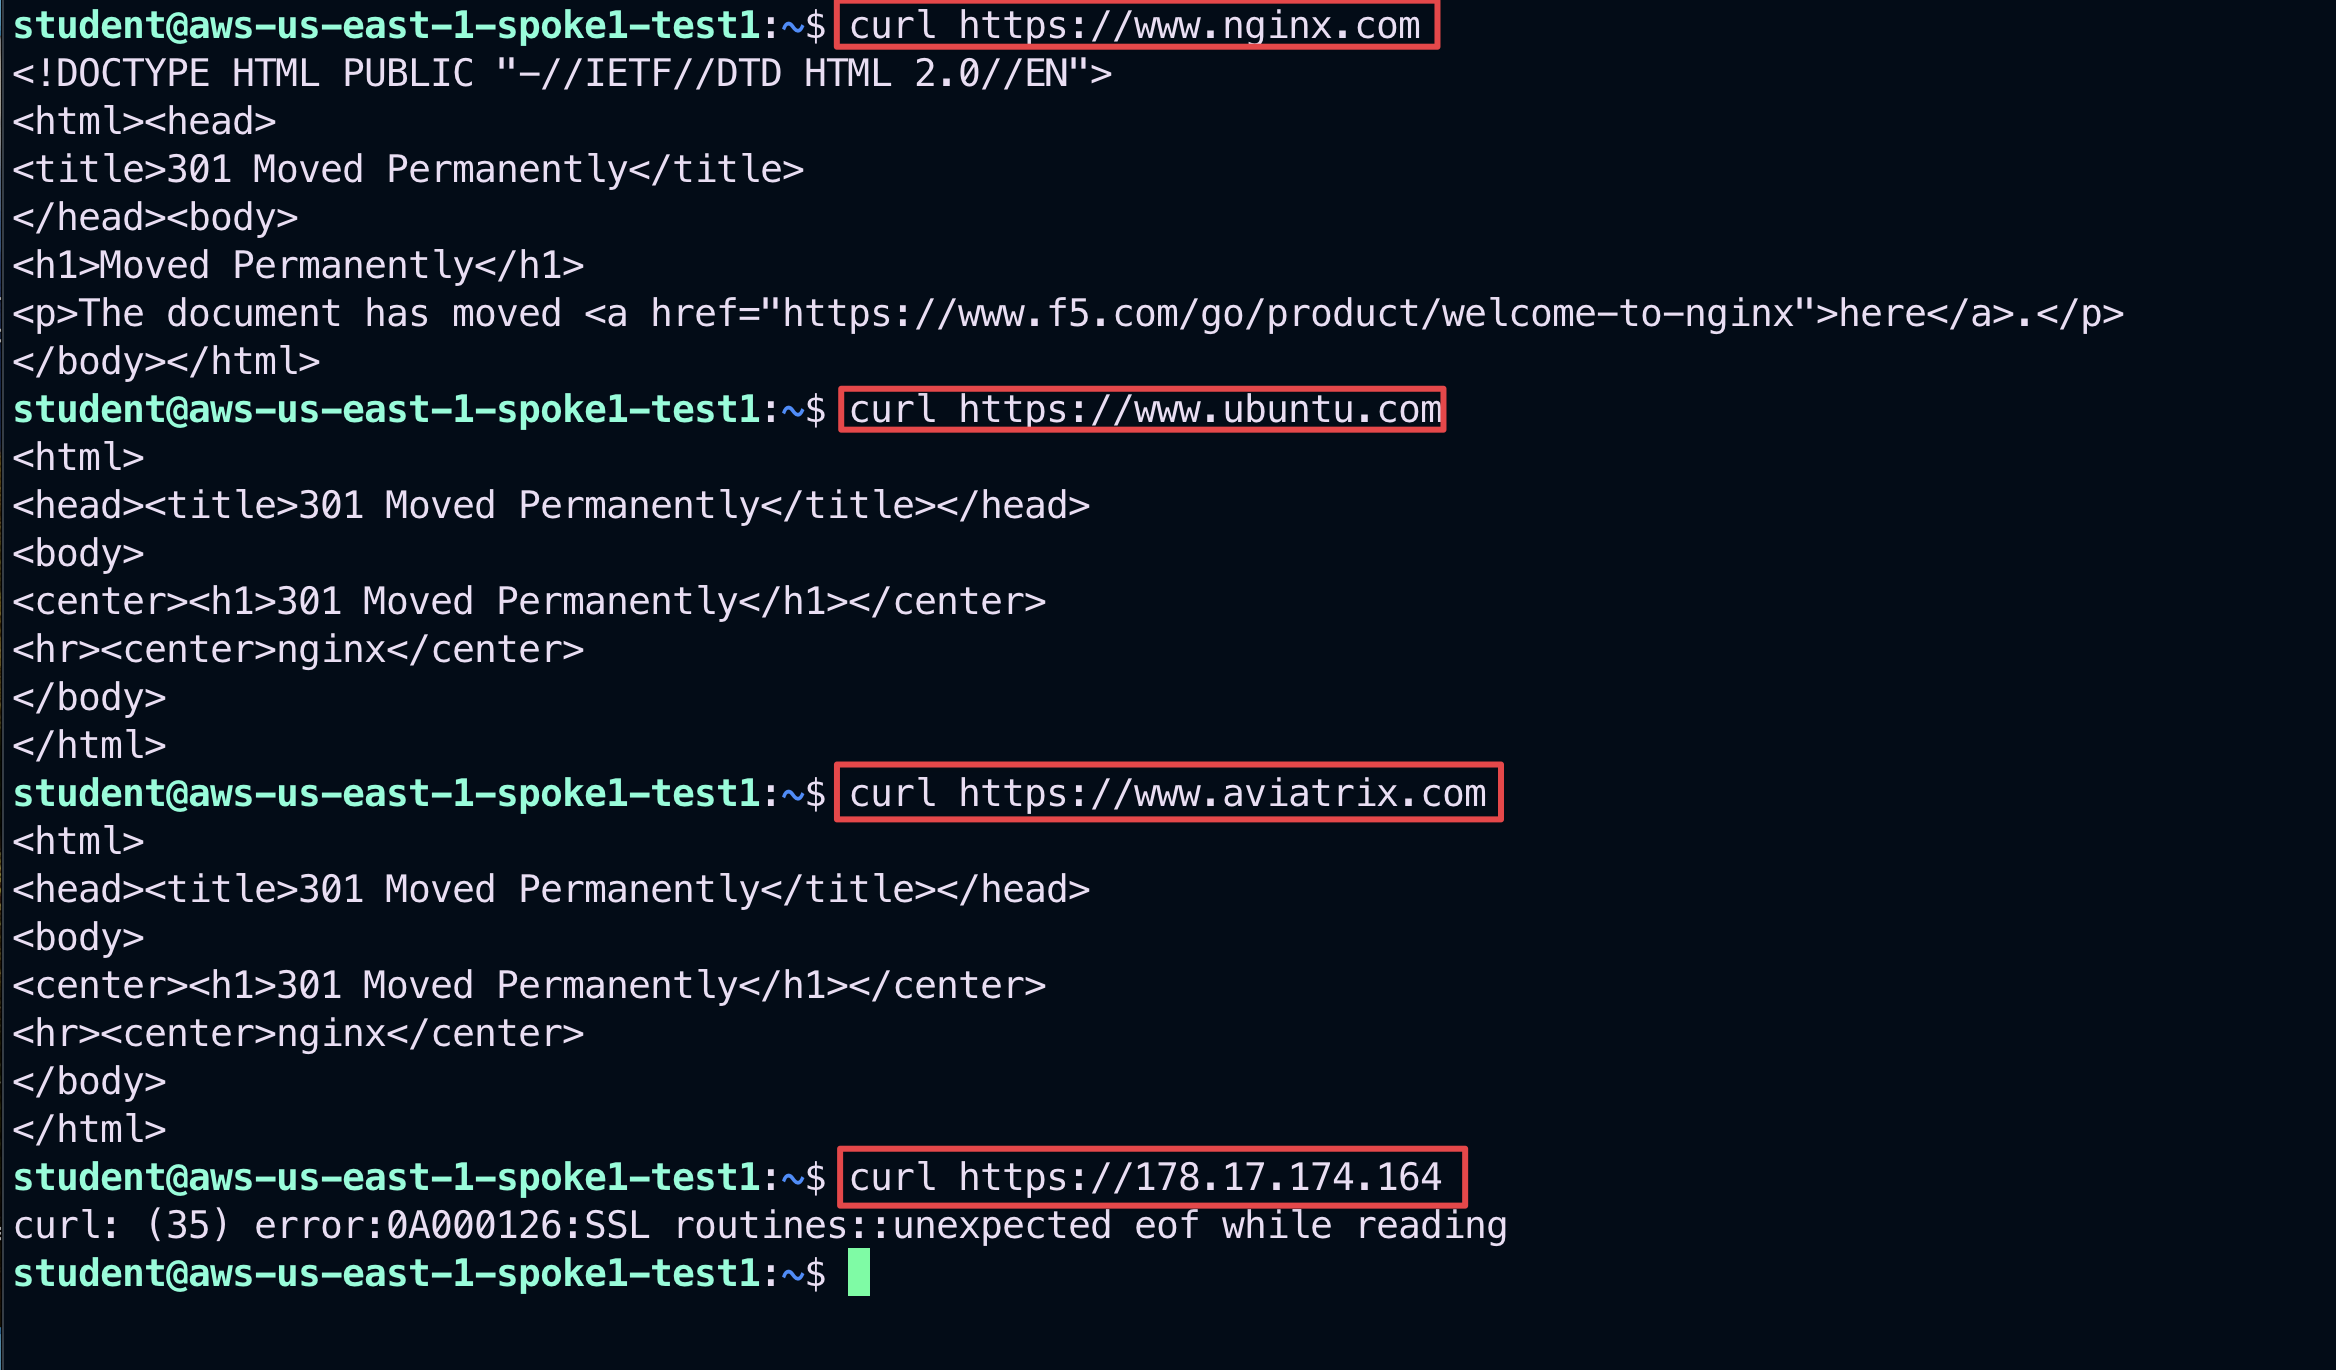
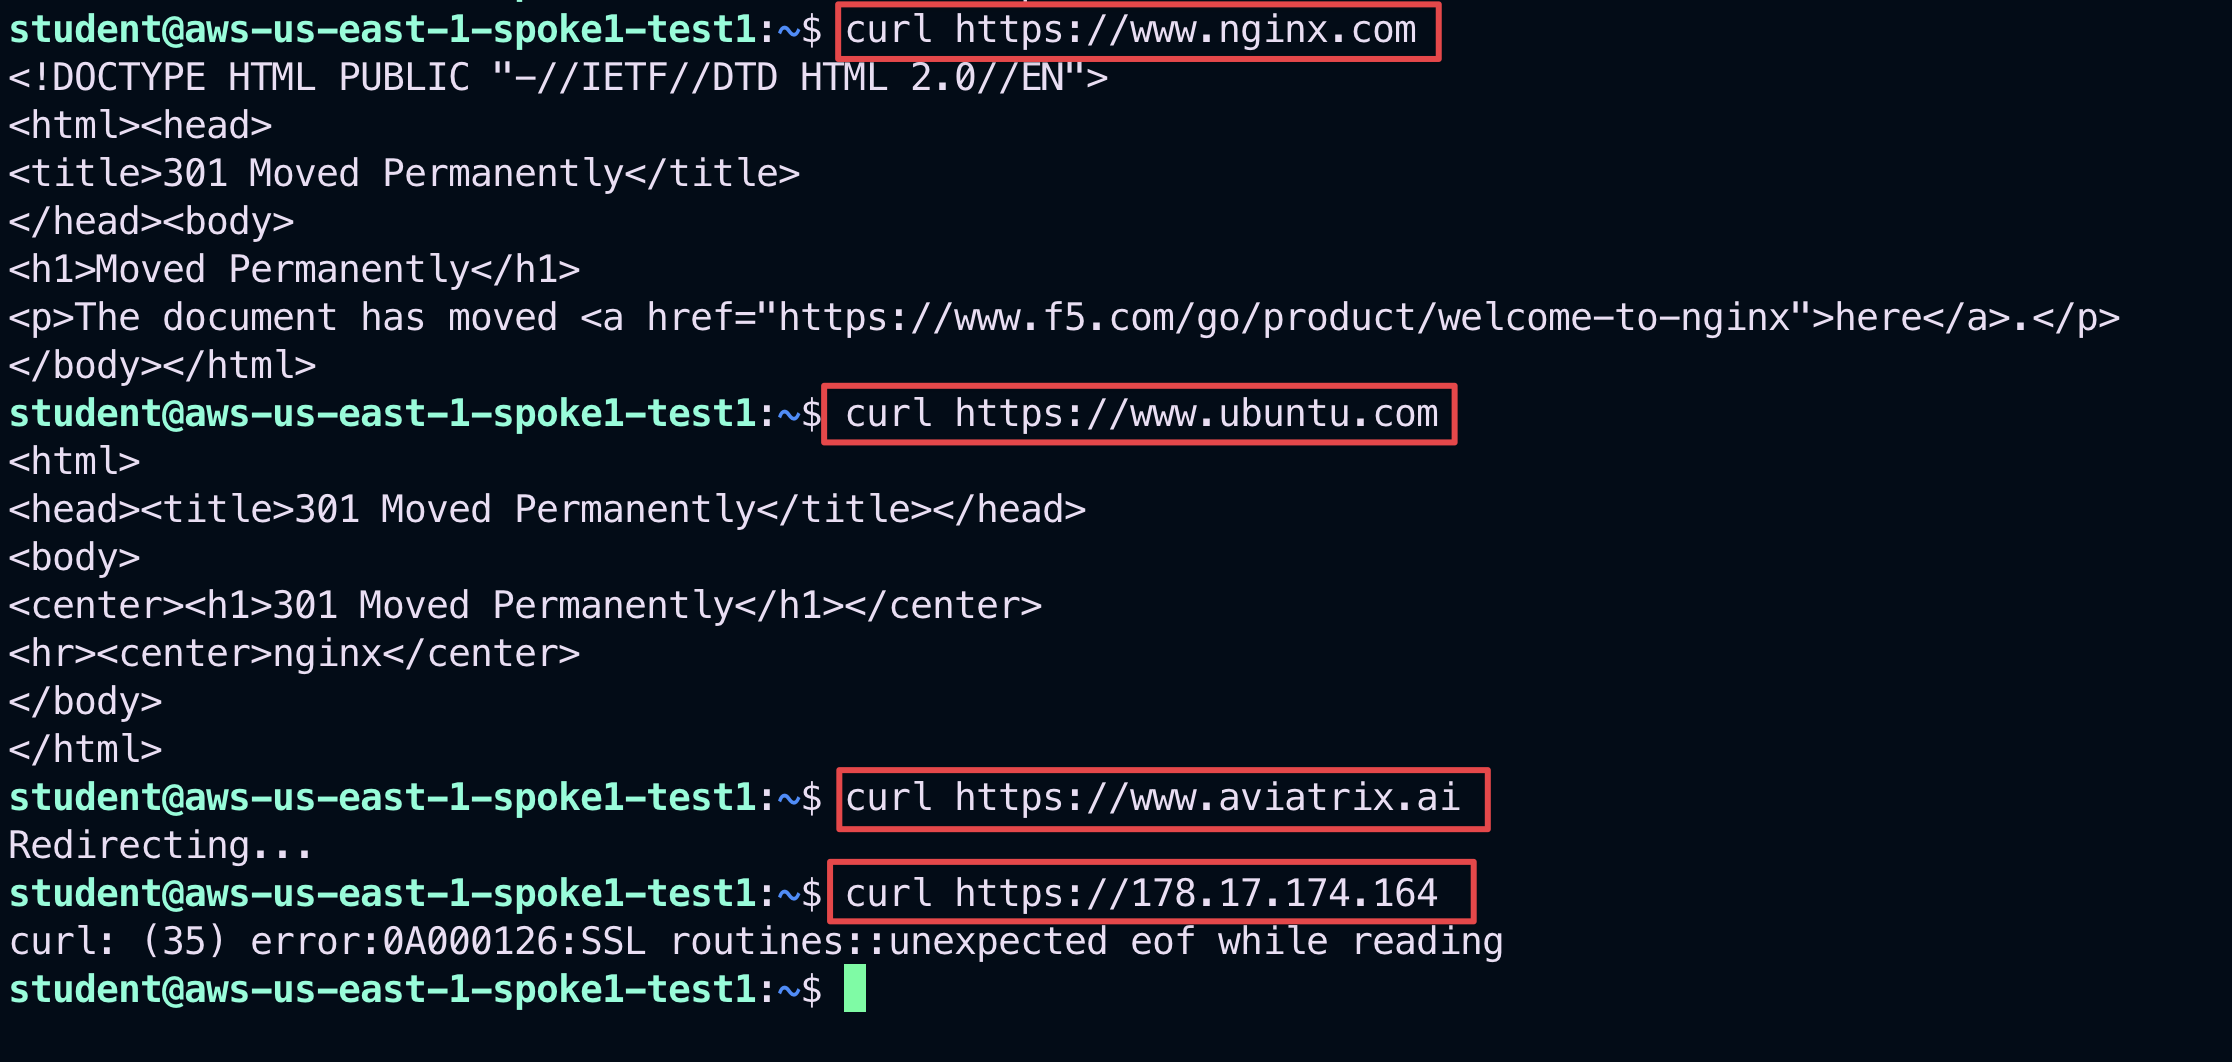
update for pro

Changed region(s): [[0.0, 0.0, 0.9583, 0.9633]]

diff --git a/ace_pro/docs/lab9.md b/ace_pro/docs/lab9.md
@@ -106,7 +106,7 @@ aws-us-east1-spoke1-rtb-public-a
 
 ## 4. Generate traffic towards a Malicious IP
 
-Now that there is a PSF Gateway on defending the Public Subnet, let's generate some traffic towards an IP with **Bad Reputation**.
+Now that there is a **PSF** Gateway on defending the Public Subnet, let's generate some traffic towards an IP with **Bad Reputation**.
 
 ### 4.1 Connectivity Testing Using the Gatus App
 
@@ -295,7 +295,7 @@ These two rules will ensure `bi-directional communication`: traffic from **aws-u
 
 Let's delete the **Greenfield-Rule** to restore **ZTNA** in the Data Path.
 
-Navigate to **CoPilot > Security > Distributed Cloud Firewall > Rules (default tab)**, click the `trash icon` on the right side of the Greenfield-Rule entry to delete it.
+Navigate to **CoPilot > Security > Distributed Cloud Firewall > Policies (default tab)**, click the `trash icon` on the right side of the **Greenfield-Rule** entry to delete it.
 
 Do not forget to click on **Commit**.
 
@@ -630,7 +630,7 @@ curl https://www.ubuntu.com
 ```
 
 ```bash
-curl https://www.aviatrix.com
+curl https://www.aviatrix.ai
 ```
 
 ```{figure} images/lab96-newrule301.png
